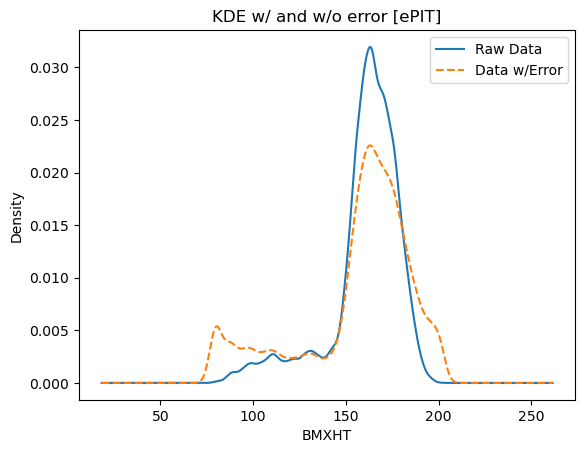
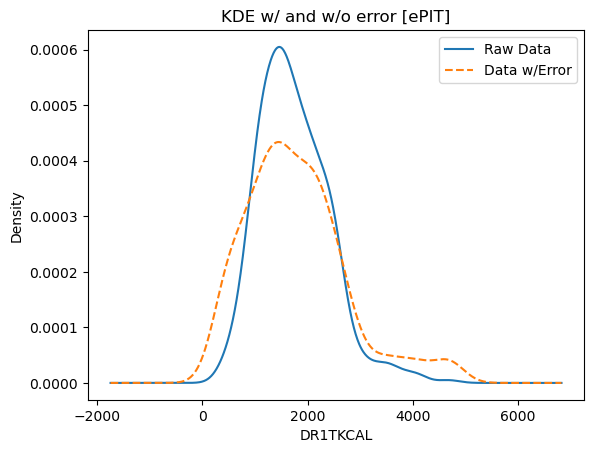
Minor changes for presentation to inlcude effect or berkson error as KDE

diff --git a/code/berkson_error_evaluation.py b/code/berkson_error_evaluation.py
@@ -90,13 +90,14 @@ voe_berkson = Data(
     cols_excluded_from_error = ["PERMTH_EXM"]
 )
 # %%
-voe_berkson.viz_error_effect("LBXT4")
+voe_berkson.viz_error_effect("DR1TKCAL")
+voe_berkson.viz_error_effect("LBXTC")
 # voe_berkson.prior_cluster.evaluate()
 # voe_berkson.post_cluster.evaluate()
 
 
 # %%50
-epit_sd = 2
+epit_sd = 1
 voe_epit = Data(
     name = f"epit_{epit_sd}", 
     raw_data = voe_data.dropna(ignore_index = True), 
@@ -105,13 +106,13 @@ voe_epit = Data(
     error_type="ePIT"
 )
 # %%
-voe_epit.ePIT_viz("LBXT4")
-voe_epit.viz_error_effect("LBXT4")
+# print(voe_epit.ePIT_viz("DR1TKCAL"))
+print(voe_epit.viz_error_effect("DR1TKCAL"))
 # voe_epit.prior_cluster.evaluate()
 # voe_epit.post_cluster.evaluate()
 
 # %%
-normal_sd = 10
+normal_sd = 10 ** 3 # NOTE: Depends on scale, of course. e.g. calories reach up to 4k
 voe_normal= Data(
     name = f"normal_{normal_sd}", 
     raw_data = voe_data.dropna(ignore_index = True), 
@@ -120,7 +121,7 @@ voe_normal= Data(
     error_type="normal"
 )
 # %%
-voe_normal.viz_error_effect("LBXT4")
+voe_normal.viz_error_effect("DR1TKCAL")
 # voe_normal.prior_cluster.evaluate()
 # voe_normal.post_cluster.evaluate()
 
@@ -134,7 +135,7 @@ voe_lognormal = Data(
     error_type="lognormal"
 )
 # %%
-voe_lognormal.viz_error_effect("LBXT4")
+voe_lognormal.viz_error_effect("DR1TKCAL")
 # voe_lognormal.prior_cluster.evaluate()
 # voe_lognormal.post_cluster.evaluate()
 
